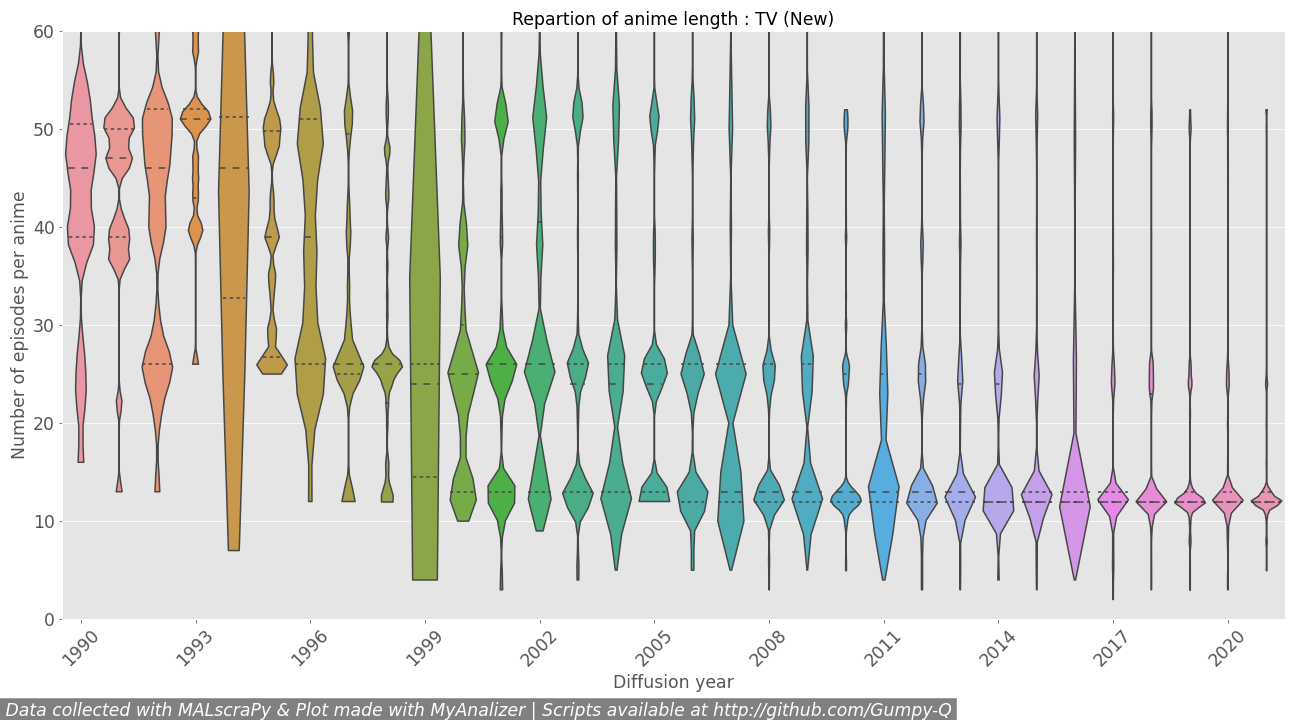
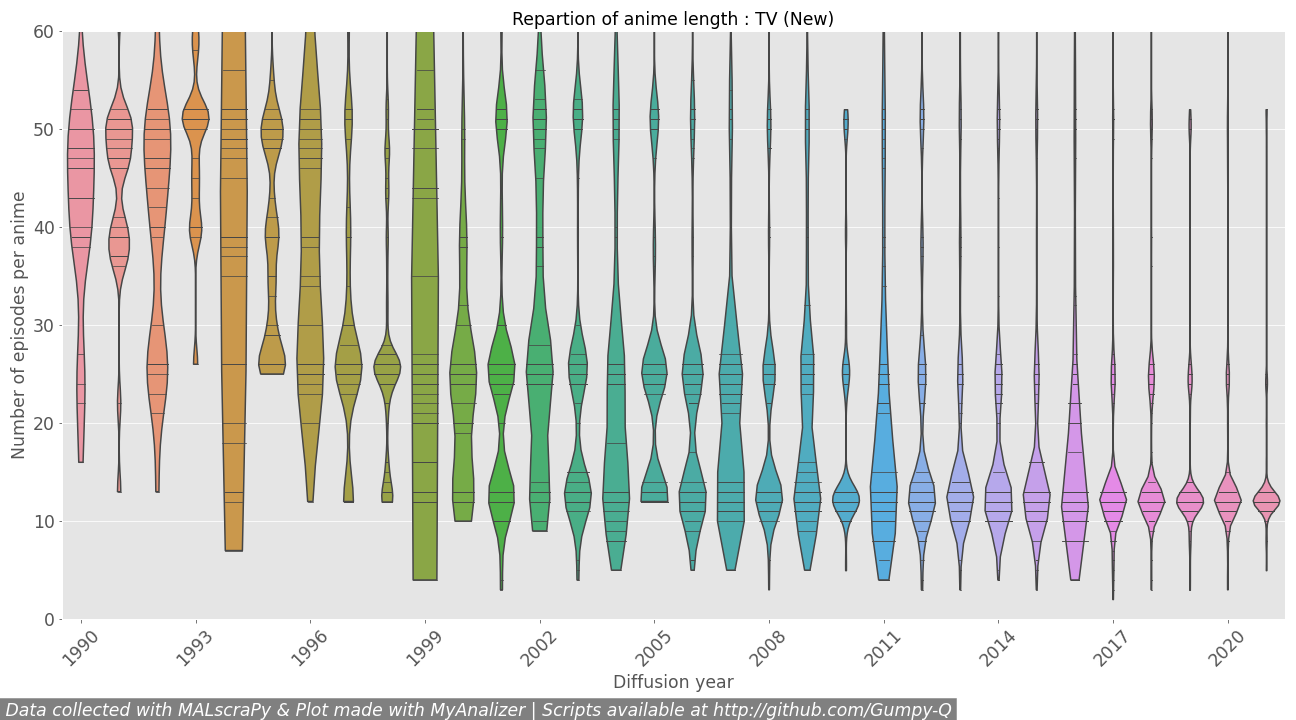
New dataviz for studio prod

diff --git a/MyAnalizer.py b/MyAnalizer.py
@@ -21,20 +21,32 @@ from sys import exit
 
 seasons=['winter','spring','summer','fall']
 anime_types=['TV (New)','TV (Continuing)','Special','OVA','ONA','Movie']
-plot_list=['Season evolution','Year evolution','Source repartition','TV (New) length','TV (Continuing) length']
+plot_list=['Season evolution','Year evolution','Evolution of studios production','Source repartition','TV (New) length','TV (Continuing) length']
 
 style.use('ggplot')
 sg.theme('DefaultNoMoreNagging') 
 
 font='xx-large'
-leg_position='center right'
+lgd_position='center right'
 adjust={'bottom':0.11,'right':0.82,'wspace':0.35}
 enlarge_fig=(18,10)
-picked_colors=['#e6194B', '#3cb44b', '#ffe119', '#4363d8', '#f58231', '#911eb4', '#42d4f4', '#f032e6', '#bfef45', '#fabed4', '#469990', '#dcbeff', '#9A6324', '#fffac8', '#800000', '#aaffc3', '#808000', '#ffd8b1', '#000075', '#a9a9a9', '#ffffff', '#000000']
-
+contrast_colors=['#e6194B', '#3cb44b', '#ffe119', '#4363d8', '#f58231', '#911eb4', '#42d4f4', '#f032e6', '#bfef45', '#fabed4', '#469990', '#dcbeff', '#9A6324', '#fffac8', '#800000', '#aaffc3', '#808000', '#ffd8b1', '#000075', '#a9a9a9', '#ffffff', '#000000']
+long_contrast_colors=["#000000", "#FFFF00", "#1CE6FF", "#FF34FF", "#FF4A46", "#008941", "#006FA6", "#A30059",
+"#FFDBE5", "#7A4900", "#0000A6", "#63FFAC", "#B79762", "#004D43", "#8FB0FF", "#997D87",
+"#5A0007", "#809693", "#FEFFE6", "#1B4400", "#4FC601", "#3B5DFF", "#4A3B53", "#FF2F80",
+"#61615A", "#BA0900", "#6B7900", "#00C2A0", "#FFAA92", "#FF90C9", "#B903AA", "#D16100",
+"#DDEFFF", "#000035", "#7B4F4B", "#A1C299", "#300018", "#0AA6D8", "#013349", "#00846F",
+"#372101", "#FFB500", "#C2FFED", "#A079BF", "#CC0744", "#C0B9B2", "#C2FF99", "#001E09",
+"#00489C", "#6F0062", "#0CBD66", "#EEC3FF", "#456D75", "#B77B68", "#7A87A1", "#788D66",
+"#885578", "#FAD09F", "#FF8A9A", "#D157A0", "#BEC459", "#456648", "#0086ED", "#886F4C",
+"#34362D", "#B4A8BD", "#00A6AA", "#452C2C", "#636375", "#A3C8C9", "#FF913F", "#938A81",
+"#575329", "#00FECF", "#B05B6F", "#8CD0FF", "#3B9700", "#04F757", "#C8A1A1", "#1E6E00",
+"#7900D7", "#A77500", "#6367A9", "#A05837", "#6B002C", "#772600", "#D790FF", "#9B9700",
+"#549E79", "#FFF69F", "#201625", "#72418F", "#BC23FF", "#99ADC0", "#3A2465", "#922329",
+"#5B4534", "#FDE8DC", "#404E55", "#0089A3", "#CB7E98", "#A4E804", "#324E72", "#6A3A4C"]
 
                 #SECTION 2 FUNCTIONS DEFINITION
-def stackbarcolor(df_plot,cat_list,ax,plot_name,colors_list,cat_key,tosum_key,ylabel_name,max_year,min_year,ymax=0):
+def stackbarcolor(df_plot,cat_list,ax,plot_name,colors_list,cat_key,tosum_key,ylabel_name,max_year,min_year,ymax=1):
     df_plot['bottom']=0    
     
     for cat_value,color in zip(cat_list,colors_list): #I want to attribute a color for each source that will be consistent for each type of anime
@@ -48,15 +60,15 @@ def stackbarcolor(df_plot,cat_list,ax,plot_name,colors_list,cat_key,tosum_key,yl
             for year in df_cat['release-year']:
                 df_plot.loc[df_plot['release-year']==year,['bottom']]=df_cat.loc[df_cat['release-year']==year,[tosum_key]].values+df_cat.loc[df_cat['release-year']==year,['bottom']].values 
                 
-            ax.set_ylabel(ylabel_name,fontsize=font)
-            ax.xaxis.label.set_size(font)
-            ax.set_title(plot_name,fontsize=font)
-            ax.axis(xmax=df_plot['release-year'].max()+1,xmin=df_plot['release-year'].min()-1)
-            ax.tick_params('x',labelrotation=45, labelsize=font)
-            ax.tick_params('y', labelsize=font)
-            ax.set(xlim=(min_year-1,max_year+1))
-            ax.ticklabel_format(axis='x', style='plain', useOffset=False) #If I don't do this plt want to put the label to engineering notation
-            ax.xaxis.set_major_locator(MaxNLocator(integer=True,nbins=7,prune='both')) #give instruction how to handle the tick label: integer, nb of label, remove egde label
+    ax.set_ylabel(ylabel_name,fontsize=font)
+    ax.xaxis.label.set_size(font)
+    ax.set_title(plot_name,fontsize=font)
+    ax.axis(xmax=df_plot['release-year'].max()+1,xmin=df_plot['release-year'].min()-1)
+    ax.tick_params('x',labelrotation=45, labelsize=font)
+    ax.tick_params('y', labelsize=font)
+    ax.set(xlim=(min_year-1,max_year+1))
+    ax.ticklabel_format(axis='x', style='plain', useOffset=False) #If I don't do this plt want to put the label to engineering notation
+    ax.xaxis.set_major_locator(MaxNLocator(integer=True,nbins=7,prune='both')) #give instruction how to handle the tick label: integer, nb of label, remove egde label
             
     ymax=max(df_plot['bottom'].max(),ymax) #after each season I retrieve the maximum value to limit plot axis
     
@@ -72,7 +84,7 @@ def production_season(df,min_year,max_year,anitypes,color_list): #To vizualize t
     select_years=season_analyze[(season_analyze['release-year']<=max_year) & (season_analyze['release-year']>=min_year)] #remove years out of study scope
     select_years=select_years[select_years['type'].isin(anitypes)]
     
-    picked_colors=color_list[0:len(anitypes)+1]
+    contrast_colors=color_list[0:len(anitypes)+1]
     
     custom_patches=[]
 
@@ -82,7 +94,7 @@ def production_season(df,min_year,max_year,anitypes,color_list): #To vizualize t
     ymax=0
     
     #avoid colors mismatch when getting legend
-    for color in picked_colors:
+    for color in contrast_colors:
         custom_patches.append(Patch(facecolor=color, edgecolor='b')) 
     
     print('------------ plotting evolution of production by season ------------')
@@ -92,7 +104,7 @@ def production_season(df,min_year,max_year,anitypes,color_list): #To vizualize t
 
         print('--------------'+season)
         
-        ymax=stackbarcolor(df_season,anitypes,ax,season,picked_colors,'type','count','Count',max_year,min_year,ymax)
+        ymax=stackbarcolor(df_season,anitypes,ax,season,contrast_colors,'type','count','Count',max_year,min_year,ymax)
         
     for ax in axes:
         ax.axis(ymax=ymax+5) #And then I set the limit
@@ -100,7 +112,7 @@ def production_season(df,min_year,max_year,anitypes,color_list): #To vizualize t
     
     signature(fig)
     fig.suptitle('Evolution of the production',fontsize=font)
-    fig.legend(custom_patches, anitypes, loc=leg_position,fontsize=font)
+    fig.legend(custom_patches, anitypes, loc=lgd_position,fontsize=font)
     
     fig.tight_layout()    
     fig.subplots_adjust(right=adjust['right'],bottom=adjust['bottom'],wspace=adjust['wspace'])
@@ -116,10 +128,10 @@ def production_year(df,min_year,max_year,anitypes,color_list): #To vizualize the
     select_years=season_analyze[(season_analyze['release-year']<=max_year) & (season_analyze['release-year']>=min_year)] #remove years out of study scope
     select_years=select_years[select_years['type'].isin(anitypes)]
     
-    picked_colors=color_list[0:len(anitypes)+1]  
+    contrast_colors=color_list[0:len(anitypes)+1]  
     custom_patches=[]    
     #avoid colors mismatch when getting legend
-    for color in picked_colors:
+    for color in contrast_colors:
         custom_patches.append(Patch(facecolor=color, edgecolor='b'))
     
     print('------------ plotting evolution of production by year ------------')    
@@ -130,13 +142,13 @@ def production_year(df,min_year,max_year,anitypes,color_list): #To vizualize the
      
     df_year=select_years.sort_values('release-year') #reducing the DataFrame to the season studied
         
-    ymax=stackbarcolor(df_year,anitypes,ax,'',picked_colors,'type','count','Number of anime aired',max_year,min_year,ymax)
+    ymax=stackbarcolor(df_year,anitypes,ax,'',contrast_colors,'type','count','Number of anime aired',max_year,min_year,ymax)
         
     ax.axis(ymax=ymax+5) #And then I set the limit
     
     signature(fig)
     fig.suptitle('Evolution of the production',fontsize=font)
-    fig.legend(custom_patches, anitypes, loc=leg_position,fontsize=font)
+    fig.legend(custom_patches, anitypes, loc=lgd_position,fontsize=font)
 
     fig.tight_layout()    
     fig.subplots_adjust(right=adjust['right'],bottom=adjust['bottom'])
@@ -146,7 +158,7 @@ def production_year(df,min_year,max_year,anitypes,color_list): #To vizualize the
 
     return fig
 
-def source(df,min_year,max_year,anitypes,color_list,thresold): 
+def source(df,min_year,max_year,anitypes,color_list,thresold=0): 
         
     select_years=df[(df['release-year']<=max_year) & (df['release-year']>=min_year)] #remove years out of study scope
     select_years=select_years[select_years['type'].isin(anitypes)] 
@@ -168,12 +180,12 @@ def source(df,min_year,max_year,anitypes,color_list,thresold):
     #build a descending list by percent of source material
     sources=select_years.sort_values('percent',ascending=False)['source-material'].unique()    
        
-    picked_colors=color_list[0:len(sources)]
+    contrast_colors=color_list[0:len(sources)]
      
     custom_patches=[]
     
     #avoid colors mismatch when getting legend
-    for color in picked_colors:
+    for color in contrast_colors:
         custom_patches.append(Patch(facecolor=color, edgecolor='b')) 
     
     print('------------ plotting evolution of source material ------------')    
@@ -194,7 +206,7 @@ def source(df,min_year,max_year,anitypes,color_list,thresold):
             df_type=select_years[select_years['type']==anime_type].sort_values('release-year') #reducing the DataFrame to the season studied I need the year to be at the right order for the stacking
             print('--------------'+anime_type)
             
-            stackbarcolor(df_type,sources,ax,anime_type,picked_colors,'source-material','percent','Part of the diffusion',max_year,min_year)
+            stackbarcolor(df_type,sources,ax,anime_type,contrast_colors,'source-material','percent','Part of the diffusion',max_year,min_year)
             for ax in axes:
                 ax.set(ylim=(0,1))
                 ax.yaxis.set_major_formatter(PercentFormatter(xmax=1, decimals=0, symbol='%', is_latex=False))
@@ -205,11 +217,11 @@ def source(df,min_year,max_year,anitypes,color_list,thresold):
         anime_type=anitypes[0]
         print('--------------'+anime_type)
           
-        stackbarcolor(df_type,sources,ax,anime_type,picked_colors,'source-material','percent','Part of the diffusion',max_year,min_year)
+        stackbarcolor(df_type,sources,ax,anime_type,contrast_colors,'source-material','percent','Part of the diffusion',max_year,min_year)
         ax.set(ylim=(0,1))
         ax.yaxis.set_major_formatter(PercentFormatter(xmax=1, decimals=0, symbol='%', is_latex=False))
 
-    fig.legend(custom_patches, sources, loc=leg_position,fontsize=font)
+    fig.legend(custom_patches, sources, loc=lgd_position,fontsize=font)
     signature(fig)
     fig.suptitle('Source of the adaptation (if less than '+str(thresold)+'% -> Other)',fontsize=font)          
    
@@ -221,13 +233,86 @@ def source(df,min_year,max_year,anitypes,color_list,thresold):
     
     return fig
 
+def production_studio(df,min_year,max_year,anitypes,color_list): 
+        
+    select_years=df[(df['release-year']<=max_year) & (df['release-year']>=min_year)] #remove years out of study scope
+    select_years=select_years[select_years['type'].isin(anitypes)] 
+    
+    select_years=select_years[select_years['studio'] != '          -' ]
+    select_years=select_years[select_years['studio'] != '-']
+    
+    select_years=select_years.value_counts(['release-year','type','studio']).reset_index(name='count') #transform the long list to a count for each config
+    
+    print('Selecting studios, please wait this is a long task')
+    
+    studios=[]
+    for year in select_years['release-year']:
+        for anitype in anitypes:
+            studio_list=select_years[(select_years['release-year']==year) & (select_years['type']==anitype)].sort_values('count',ascending=False)['studio'].head(3).values.tolist() #building the top 3 lists for each year and anime type
+            for studio in studio_list:
+                studios.append(studio)              
+        
+    studios = list(dict.fromkeys(studios))   #tricks to remove duplicate from a list
+    contrast_colors=color_list[0:len(studios)]
+     
+    custom_patches=[]
+    
+    #avoid colors mismatch when getting legend
+    for color in contrast_colors:
+        custom_patches.append(Patch(facecolor=color, edgecolor='b')) 
+    
+    print('------------ plotting evolution of studio production ------------')    
+               
+    if len(anitypes)>1:
+        
+        if len(anitypes)>4:
+            fig, axes = plt.subplots(2,3,figsize=enlarge_fig) #building a subplot for the 6 anime types
+            axes = axes.flatten()
+        elif len(anitypes)==2:
+            fig, axes = plt.subplots(1,2,figsize=enlarge_fig) #building a subplot for the 6 anime types
+            axes = axes.flatten()
+        else:
+            fig, axes = plt.subplots(2,2,figsize=enlarge_fig) #building a subplot for the 6 anime types
+            axes = axes.flatten()
+            
+        for anime_type,ax in zip(anitypes,axes): #Season and plot goes together so I zip them
+            df_type=select_years[select_years['type']==anime_type].sort_values('release-year') #reducing the DataFrame to the season studied I need the year to be at the right order for the stacking
+            print('--------------'+anime_type)
+            
+            ymax=stackbarcolor(df_type,studios,ax,anime_type,contrast_colors,'studio','count','Anime produced by',max_year,min_year)
+            ax.axis(ymax=ymax+5) #And then I set the limit
+            ax.ticklabel_format(axis='x', style='plain', useOffset=False)         
+                
+    else:
+        fig, ax = plt.subplots(1,1,figsize=enlarge_fig) #building a subplot for the one choosen
+        df_type=select_years.sort_values('release-year') #reducing the DataFrame to the season studied I need the year to be at the right order for the stacking
+        anime_type=anitypes[0]
+        print('--------------'+anime_type)
+          
+        ymax=stackbarcolor(df_type,studios,ax,anime_type,contrast_colors,'studio','count','Anime produced by',max_year,min_year)
+        ax.axis(ymax=ymax+5) #And then I set the limit
+        ax.ticklabel_format(axis='x', style='plain', useOffset=False)
+        
+
+    fig.legend(custom_patches, studios, loc=lgd_position,fontsize=font)
+    signature(fig)
+    fig.suptitle('Evolution of the production of the top 3 studios of each year and anime type',fontsize=font)          
+   
+    fig.tight_layout()    
+    fig.subplots_adjust(right=adjust['right']-0.1,bottom=adjust['bottom'],wspace=adjust['wspace'])
+       
+    fig.savefig(savepath+'/studio-'+str(start_year)+'-'+str(end_year))
+    fig.show()
+    
+    return fig
+
 def episode(df,min_year,max_year,anitype,max_shown): #This function is showing the repartition of anime'lenght in the year
     select_year=df[(df['type']==anitype) & (df['episodes']>0) & (df['release-year']>=min_year) & (df['release-year']<=max_year)] #Limit my dataframe
     
     print('------------ plotting evolution of anime length ------------')
     
     fig, ax =plt.subplots(figsize=enlarge_fig)
-    ax=sb.violinplot(x='release-year',y='episodes',data=select_year,bw=.05,cut=0, scale='width',inner='quartile',orientation='h') 
+    ax=sb.violinplot(x='release-year',y='episodes',data=select_year,bw=0.1,cut=0, scale='width',width=0.7,inner='stick',orientation='h') 
     ax.tick_params('x',labelrotation=45, labelsize=font)
     ax.tick_params('y', labelsize=font)
     ax.set_ylabel('Number of episodes per anime',fontsize=font)
@@ -355,8 +440,8 @@ while again[0]=='Yes':
         if datavalid==False:
             sg.popup('At least one box must be checked')
            
-    
-                    #SECTION 4 PRODUCTING PLOTS
+
+                    #SECTION 4 PRODUCING PLOTS
     layout = [[sg.Text('Path to save plots')],
               [sg.Input(default_text='Plots'), sg.FolderBrowse()],
               [sg.Ok(),sg.Cancel()]]
@@ -388,7 +473,7 @@ while again[0]=='Yes':
         exit()
     
     if plot_to_viz['Season evolution']==True:
-        fig_prod_m=production_season(raw,start_year,end_year,type_to_viz,picked_colors)
+        fig_prod_m=production_season(raw,start_year,end_year,type_to_viz,contrast_colors)
         plot_done+=1
         progress_bar.UpdateBar(plot_done)
     
@@ -398,7 +483,7 @@ while again[0]=='Yes':
         exit()
     
     if plot_to_viz['Year evolution']==True:
-        fig_prod_y=production_year(raw,start_year,end_year,type_to_viz,picked_colors)
+        fig_prod_y=production_year(raw,start_year,end_year,type_to_viz,contrast_colors)
         plot_done+=1
         progress_bar.UpdateBar(plot_done)
     
@@ -406,9 +491,14 @@ while again[0]=='Yes':
     if event==sg.WIN_CLOSED or event=='Cancel':
         window.close()
         exit()
-        
+
+    if plot_to_viz['Evolution of studios production']==True:
+        fig_stud_m=production_studio(raw,start_year,end_year,type_to_viz,contrast_colors)
+        plot_done+=1
+        progress_bar.UpdateBar(plot_done)        
+
     if plot_to_viz['Source repartition']==True:    
-        fig_source=source(raw,start_year,end_year,type_to_viz,picked_colors,2.5)
+        fig_source=source(raw,start_year,end_year,type_to_viz,contrast_colors,2.5)
         plot_done+=1
         progress_bar.UpdateBar(plot_done)
     
